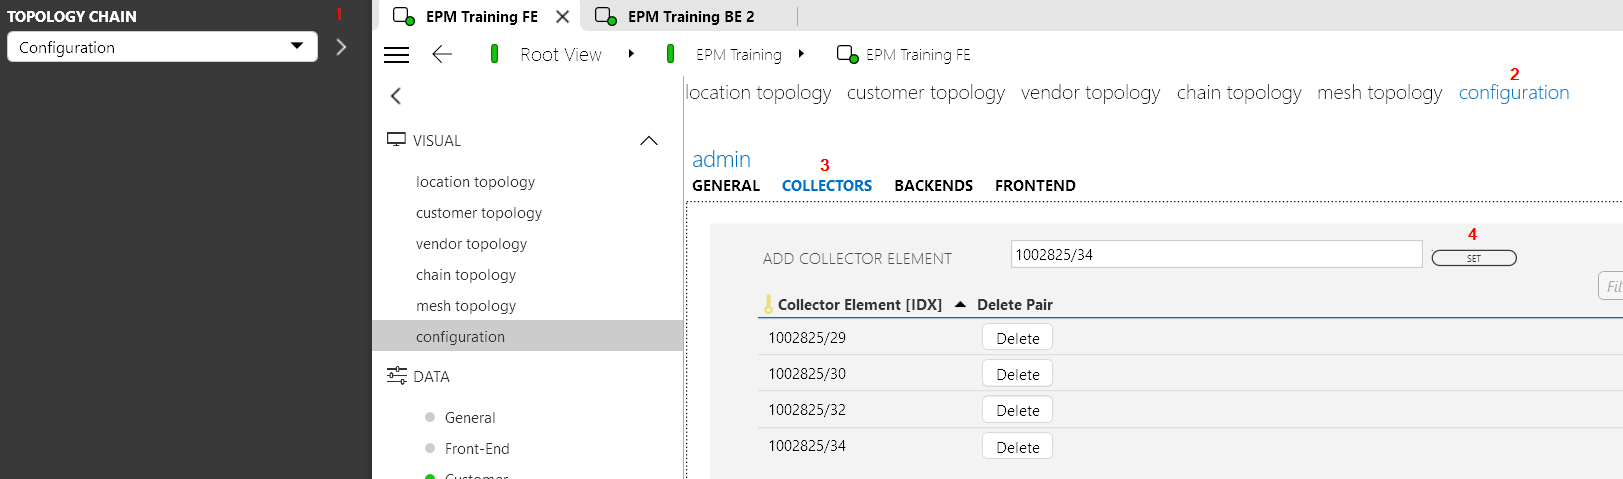
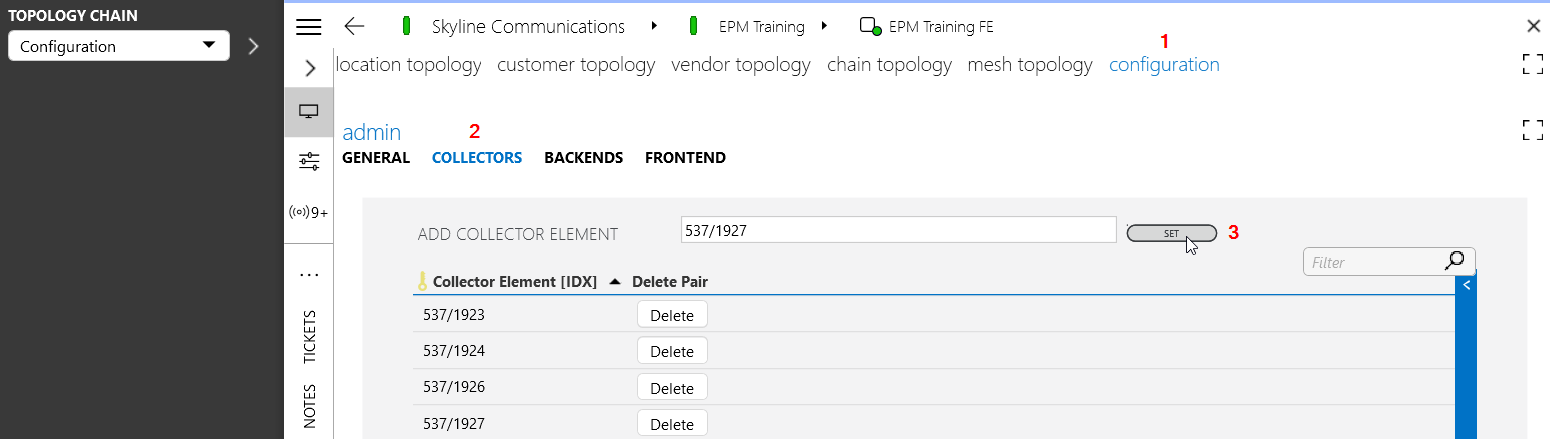
Review step 2

diff --git a/user-guide/Advanced_Modules/EPM/Tutorials/EPM_Introduction_Tutorial.md b/user-guide/Advanced_Modules/EPM/Tutorials/EPM_Introduction_Tutorial.md
@@ -85,17 +85,19 @@ The EPM architecture allows horizontal scaling: you can add more collector eleme
 
 1. Register the new element in the front-end configuration:
 
-   1. Open the **Topology** app (1) and select the *Configuration* topology chain.
+   1. Open the **Topology** app (1), select the *Configuration* topology chain (2), and click the sideward arrow (3).
 
-   1. Go to the *Configuration* visual page (2) and then the *Collectors* tab (3).
+      ![Topology chain](~/user-guide/images/EPM_Tutorial_Topology_Chain.png)
 
-   1. Paste the DMA ID/element ID you copied earlier into the *Add Collector Element* box, and click *SET* (4).
+   1. Go to the *Configuration* visual page (1) and then the *Collectors* tab (2).
 
-   ![Collectors tab front-end element](~/user-guide/images/EPM_GS_step_2_4.png)
+   1. Paste the DMA ID/element ID you copied earlier into the *Add Collector Element* box, and click *SET* (3).
+
+      ![Collectors tab front-end element](~/user-guide/images/EPM_GS_step_2_4.png)
 
 1. Initiate the front-end provisioning cycle:
 
-   1. Navigate to the *General* visual page (1) of the *EPM Training FE* element.
+   1. Navigate to the *General* tab (1) of the *EPM Training FE* element.
 
    1. Next to *Import*, click the *SET* button (2).
 
